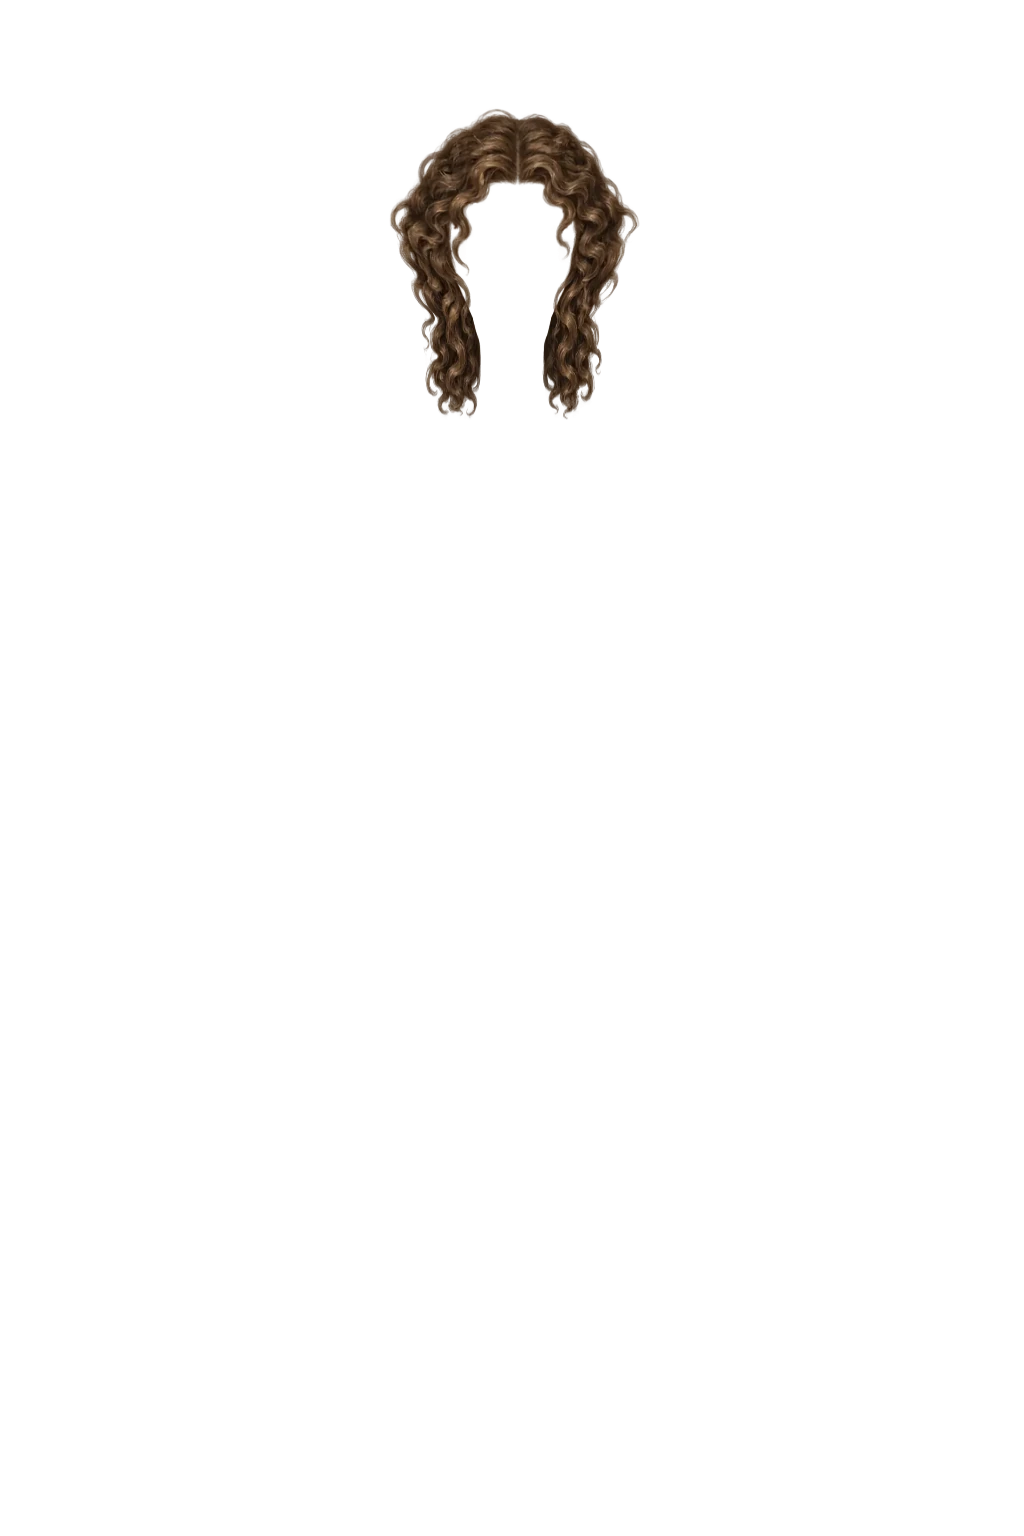
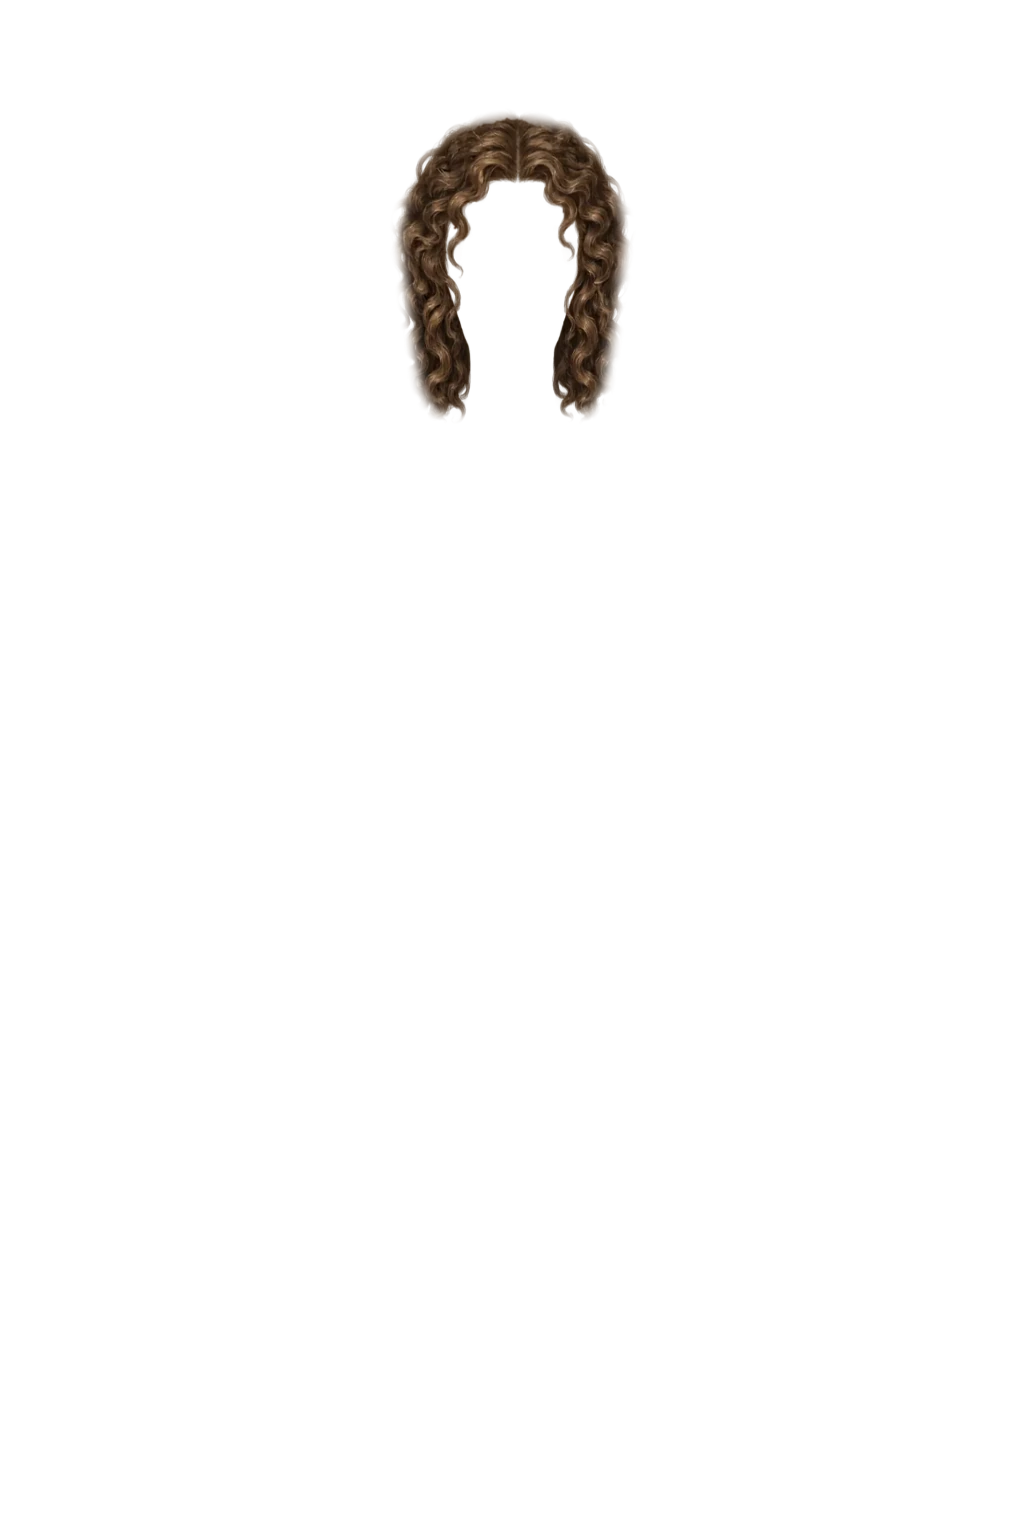
Postava: nůž šikmo za lucernou, sekera s hlavicí přes opasek a brašnu (zvláštní vrstva), ženské kudrnaté podle náčrtu, kroužkové rukávy plátového kyrysu přes celou paži
Claude-Session: https://claude.ai/code/session_01Q25kmxKucwLhnUcj4Ap4v4

Changed region(s): [[0.375, 0.0625, 0.625, 0.2812]]

diff --git a/nastroje/barvy/naradi.py b/nastroje/barvy/naradi.py
@@ -4,8 +4,9 @@ from PIL import Image, ImageFilter
 I='/home/claude/kralovske-stezky-grafika/img/predmety/ikony/'
 P='/home/claude/kralovske-stezky-grafika/img/postava/'
 C=json.loads(sys.argv[1]) if len(sys.argv)>1 else {}
-def nastroj(n, delka, uhel, stred):
+def nastroj(n, delka, uhel, stred, zrcadlo=False):
     im=Image.open(I+n+'.webp').convert('RGBA')
+    if zrcadlo: im=im.transpose(Image.FLIP_LEFT_RIGHT)
     im=im.crop(im.getchannel('A').getbbox())
     k=delka/max(im.size); im=im.resize((round(im.width*k),round(im.height*k)),Image.LANCZOS).filter(ImageFilter.UnsharpMask(1.2,60,2))
     im=im.rotate(uhel,resample=Image.BICUBIC,expand=True)
@@ -14,8 +15,8 @@ import numpy as np
 OPASEK=np.asarray(Image.open(P+'opasek-kozeny.webp').getchannel('A'))>90
 def vrstva(nazev, polozky, za_opaskem_od=None):
     c=Image.new('RGBA',(1024,1536))
-    for n,d,u,s in polozky:
-        im,pos=nastroj(n,d,u,s); c.alpha_composite(im,pos)
+    for n,d,u,s,*z in polozky:
+        im,pos=nastroj(n,d,u,s,bool(z and z[0])); c.alpha_composite(im,pos)
     if za_opaskem_od is not None:                    # část pod daným řádkem je schovaná za opaskem (vrstva jde přes opasek)
         a=np.asarray(c).copy(); yy=np.arange(1536)[:,None]
         a[OPASEK&(yy>=za_opaskem_od),3]=0
@@ -27,6 +28,18 @@ vrstva('naradi-zada-krumpac-lopata',[lo,kr])
 vrstva('naradi-zada-krumpac',[("krumpac",Z["d"],Z["u"],(Z["x"],Z["y"]))])
 vrstva('naradi-zada-lopata',[("lopata",Z["d"],-Z["u"],(Z["x"],Z["y"]))])
 N=C.get('nuz',{"d":200,"u":-140,"x":580,"y":690}); S=C.get('sekera',{"d":270,"u":160,"x":672,"y":700})
-vrstva('naradi-pas-nuz',[("lovecky-nuz",N["d"],N["u"],(N["x"],N["y"]))],N.get("za"))
-vrstva('naradi-pas-sekera',[("sekera",S["d"],S["u"],(S["x"],S["y"]))],S.get("za"))
+vrstva('naradi-pas-nuz',[("lovecky-nuz",N["d"],N["u"],(N["x"],N["y"]),N.get("m"))],N.get("za"))
+vrstva('naradi-pas-sekera',[("sekera",S["d"],S["u"],(S["x"],S["y"]),S.get("m"))],S.get("za"))
+# hlavice sekery zvlášť (kreslí se přes opasek a malou brašnu, topůrko zůstane za nimi)
+from scipy import ndimage
+a=np.asarray(Image.open(P+'naradi-pas-sekera.webp').convert('RGBA')).copy()
+r,g,b=[a[...,i].astype(int) for i in range(3)]
+kov=(a[...,3]>40)&((r-b)<22)
+lab,n=ndimage.label(ndimage.binary_closing(kov,iterations=3))
+if n:
+    sz=ndimage.sum(kov,lab,range(1,n+1)); kov=lab==(np.argmax(sz)+1)
+kov=ndimage.binary_dilation(kov,iterations=4)
+h=a.copy(); h[~kov,3]=0
+Image.fromarray(h,'RGBA').save(P+'naradi-pas-sekera-hlava.webp','WEBP',quality=92,method=6)
+Image.fromarray(h,'RGBA').resize((512,768),Image.LANCZOS).save(P+'naradi-pas-sekera-hlava-m.webp','WEBP',quality=90,method=6)
 print('ok')

diff --git a/nastroje/barvy/rukavy_kyrys.py b/nastroje/barvy/rukavy_kyrys.py
@@ -1,0 +1,45 @@
+"""Plátový kyrys: kroužkové rukávy přes celou šířku paže (řádek po řádku) a neprůhledné (pod kroužky tmavá vycpávka)."""
+import sys
+import numpy as np
+from PIL import Image
+from scipy import ndimage
+P='/home/claude/kralovske-stezky-grafika/img/postava/'
+sx=sys.argv[1]; y0,y1=int(sys.argv[2]),int(sys.argv[3])
+A=np.asarray(Image.open(f'/home/claude/zaloha-postava/zbroj-{sx}-platovy-kyrys.webp').convert('RGBA')).copy()
+names=(['postava-telo-muz','odev-muz-vlneny-kabatec','odev-muz-lnena-kosile'] if sx=='muz'
+       else ['postava-telo-zena','odev-zena-lnena-kosilka'])
+ruk=np.zeros(A.shape[:2],bool)
+for n in names:
+    ruk|=np.asarray(Image.open(P+n+'.webp').getchannel('A'))>60
+al=A[...,3]>30
+out=A.copy()
+def runs(row):
+    r=[];s=None
+    for x,v in enumerate(row):
+        if v and s is None: s=x
+        if not v and s is not None: r.append((s,x-1)); s=None
+    if s is not None: r.append((s,len(row)-1))
+    return r
+for y in range(y0,y1):
+    for strana in (0,1):
+        kr=[r for r in runs(al[y]) if (r[1]<430 if strana==0 else r[0]>594)]
+        ar=[r for r in runs(ruk[y]) if (r[1]<440 if strana==0 else r[0]>584)]
+        if not kr or not ar: continue
+        l,r=(kr[0] if strana==0 else kr[-1]); l=min(k[0] for k in kr); r=max(k[1] for k in kr)
+        L,R=(min(a[0] for a in ar),max(a[1] for a in ar))
+        L,R=L-2,R+2
+        if R-L<=r-l: continue
+        xs=np.arange(L,R+1); src=np.clip(np.round(l+(xs-L)*(r-l)/max(1,R-L)).astype(int),0,1023)
+        out[y,L:R+1]=A[y,src]
+# pod kroužky tmavá vycpávka (rukávy neprůhledné)
+rows=np.zeros(A.shape[:2],bool); rows[y0:y1]=True
+side=np.zeros_like(rows); side[:, :430]=True; side[:,594:]=True
+reg=rows&side&(out[...,3]>20)
+reg=ndimage.binary_closing(reg,iterations=3)
+a=out[...,3:4].astype(float)/255
+pad=np.array([40,38,36],float)
+rgb=out[...,:3]*a+pad*(1-a)
+out[reg,:3]=rgb[reg].astype(np.uint8); out[reg,3]=255
+o=Image.fromarray(out,'RGBA')
+o.save(P+f'zbroj-{sx}-platovy-kyrys.webp','WEBP',quality=92,method=6); o.resize((512,768),Image.LANCZOS).save(P+f'zbroj-{sx}-platovy-kyrys-m.webp','WEBP',quality=90,method=6)
+print('ok')

diff --git a/nastroje/barvy/kudrny_zena.py b/nastroje/barvy/kudrny_zena.py
@@ -13,6 +13,11 @@ ys=cy+(yy-cy)/ky                                 # svislé zmenšení kolem čel
 t=np.clip((ys-y0)/(y1-y0),0,1); k=k_top+(k_bot-k_top)*t
 xs=cx+(xx-cx)/k
 out=np.dstack([ndimage.map_coordinates(im[...,c],[ys,xs],order=1,mode='constant',cval=0) for c in range(4)])
+# r27-6: tvar podle Pavlova náčrtu — vlasy přiléhají k hlavě a končí u ramen
+from PIL import ImageDraw, ImageFilter
+POLY=[(452,128),(512,118),(572,128),(612,166),(624,235),(614,315),(602,388),(588,412),(436,412),(422,388),(410,315),(400,235),(412,166)]
+m=Image.new('L',(W,H),0); ImageDraw.Draw(m).polygon(POLY,fill=255); m=np.asarray(m.filter(ImageFilter.GaussianBlur(5))).astype(float)/255
+out[...,3]*=m
 telo=np.asarray(Image.open(P+'postava-telo-zena.webp').convert('RGBA')).astype(float)
 hair=np.load('/tmp/postava-telo-zena-vlasy.npy')
 lab,nl=ndimage.label(hair); sz=ndimage.sum(hair,lab,range(1,nl+1)); hair=lab==(np.argmax(sz)+1)
